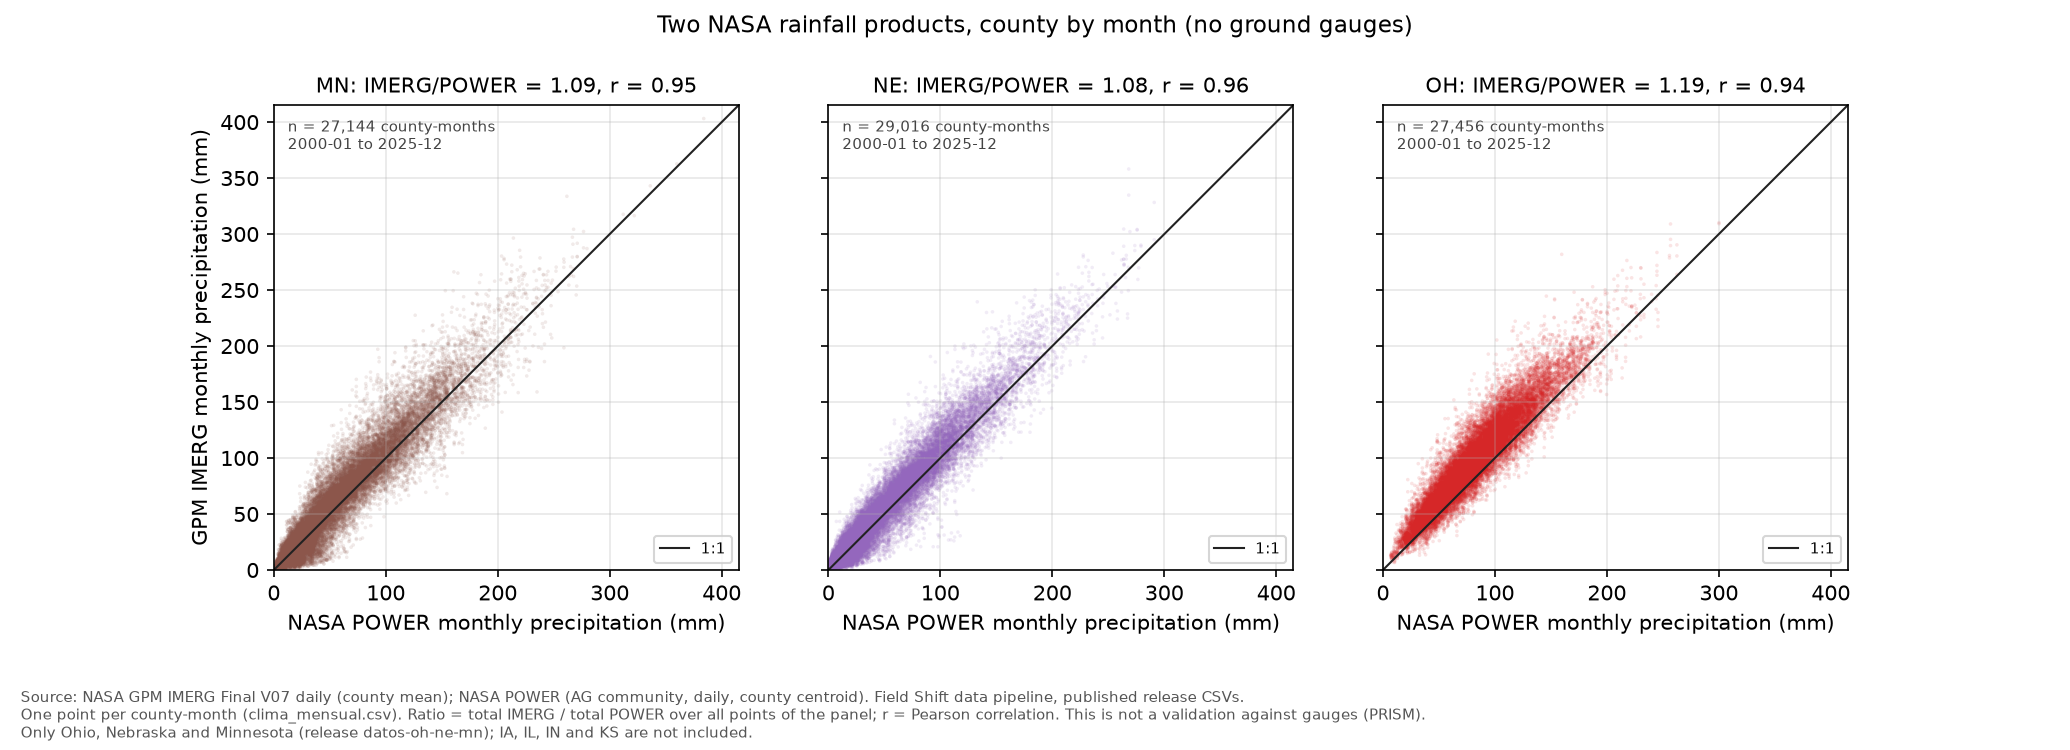
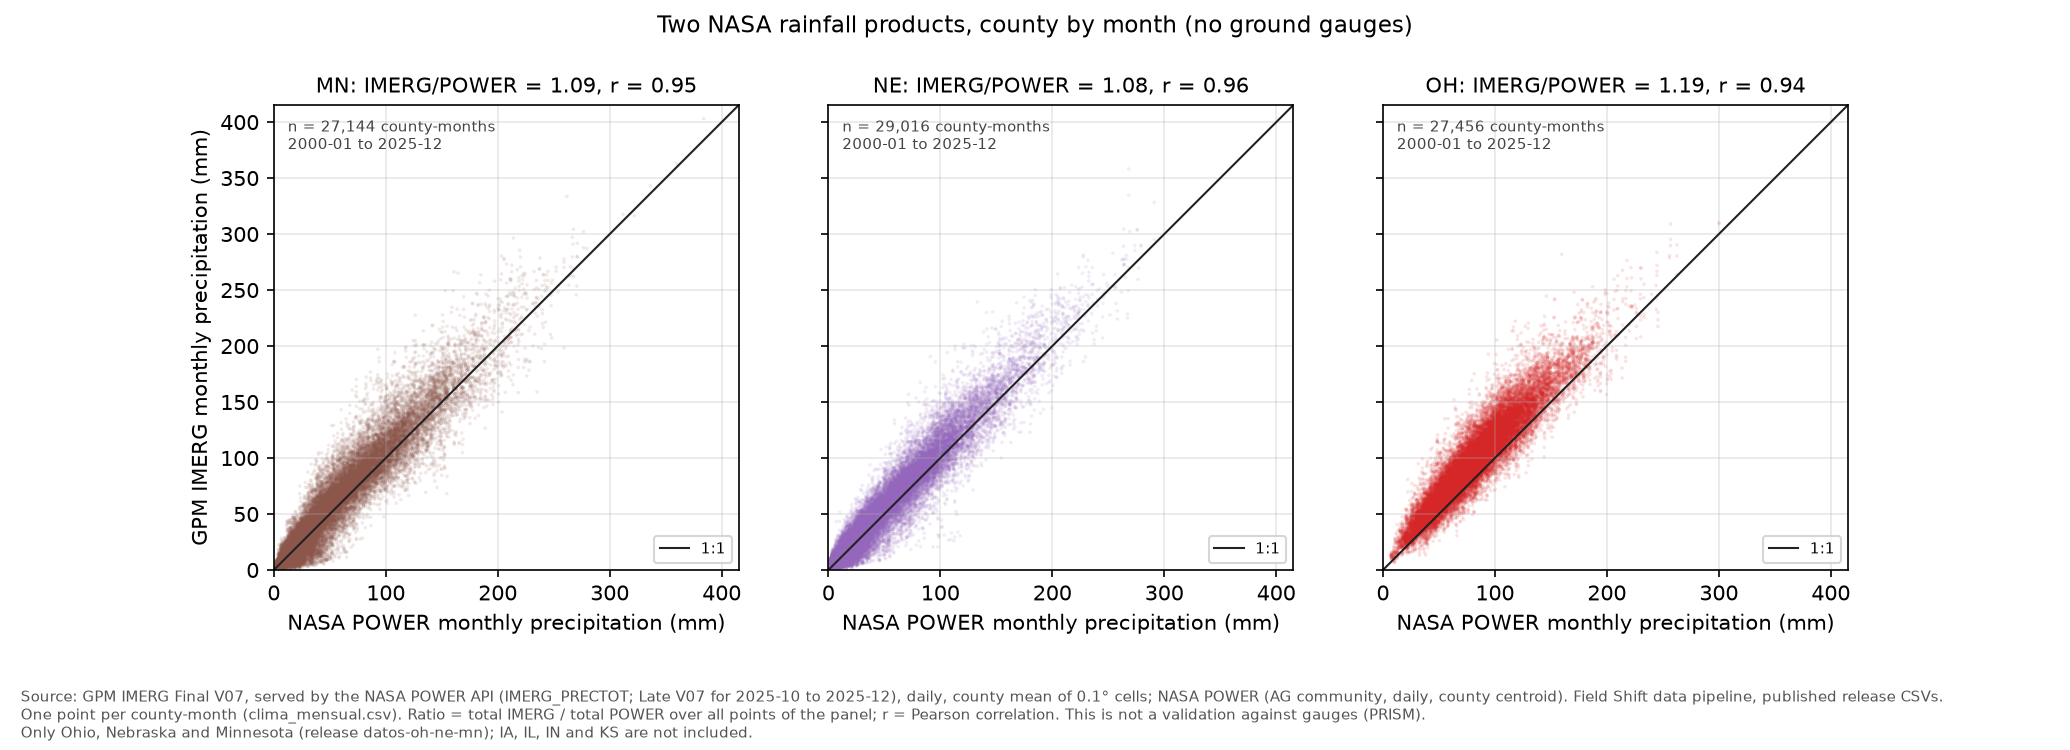
fig6: el pie dice que IMERG viene por la API de POWER (IMERG_PRECTOT)

Changed region(s): [[0.0309, 0.92, 0.9275, 0.9507]]

diff --git a/docs/demo/figuras.py b/docs/demo/figuras.py
@@ -52,7 +52,8 @@ SRC_MODIS = "NASA MODIS MOD13Q1 NDVI 250 m (CDL corn/soy pixel masks)"
 SRC_SMAP = "NASA SMAP L4 SPL4SMGP (Crop-CASMA daily layers)"
 SRC_PROG = "USDA NASS Crop Progress (state, weekly)"
 SRC_CDL = "USDA NASS Cropland Data Layer 30 m"
-SRC_IMERG = "NASA GPM IMERG Final V07 daily (county mean)"
+SRC_IMERG = ("GPM IMERG Final V07, served by the NASA POWER API (IMERG_PRECTOT; Late V07 for 2025-10 to "
+             "2025-12), daily, county mean of 0.1° cells")
 ORIGEN = "published release CSVs"             # con --entrega se cambia por el nombre del zip
 NOTA = ""                                     # p. ej. "Only OH, NE and MN"; va en el pie de cada figura
 SUFIJO = ""                                   # se agrega al nombre de cada PNG
